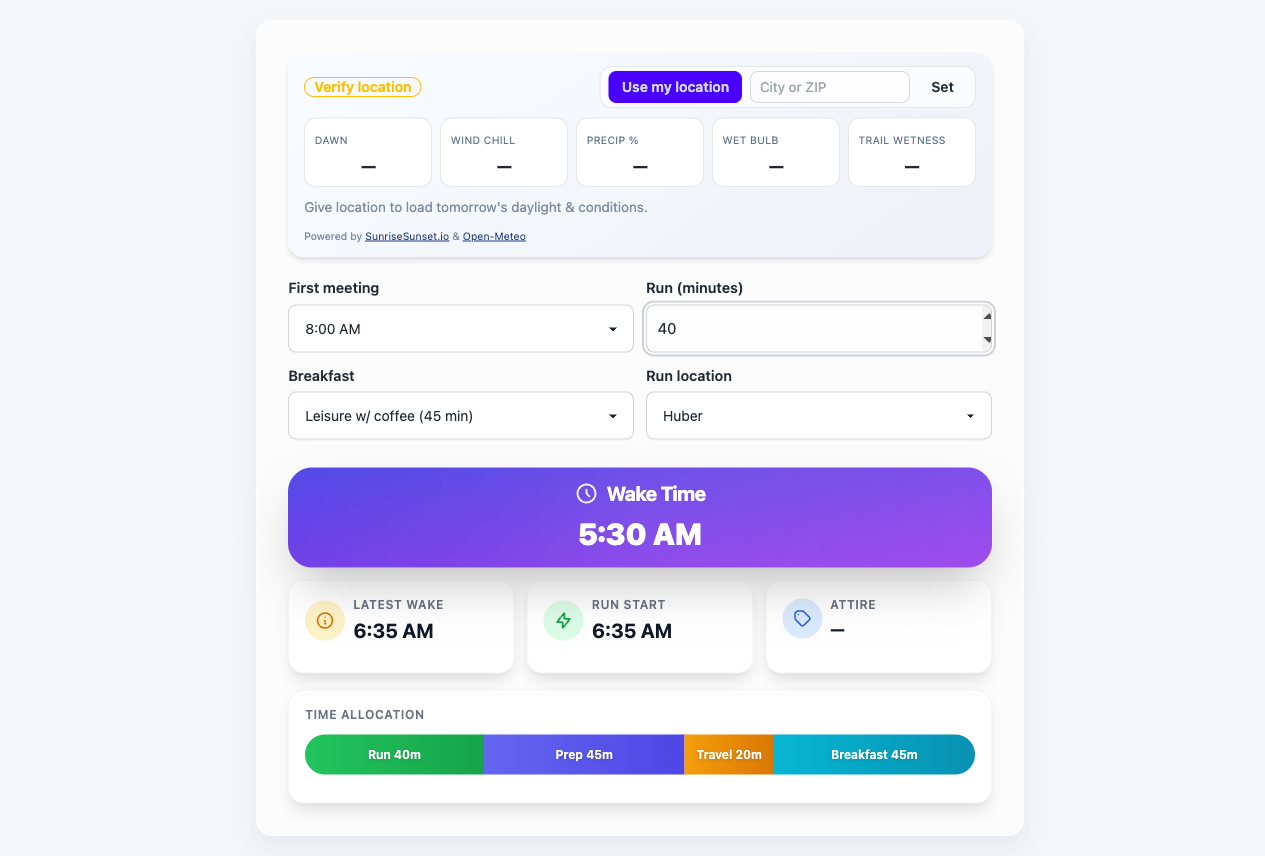
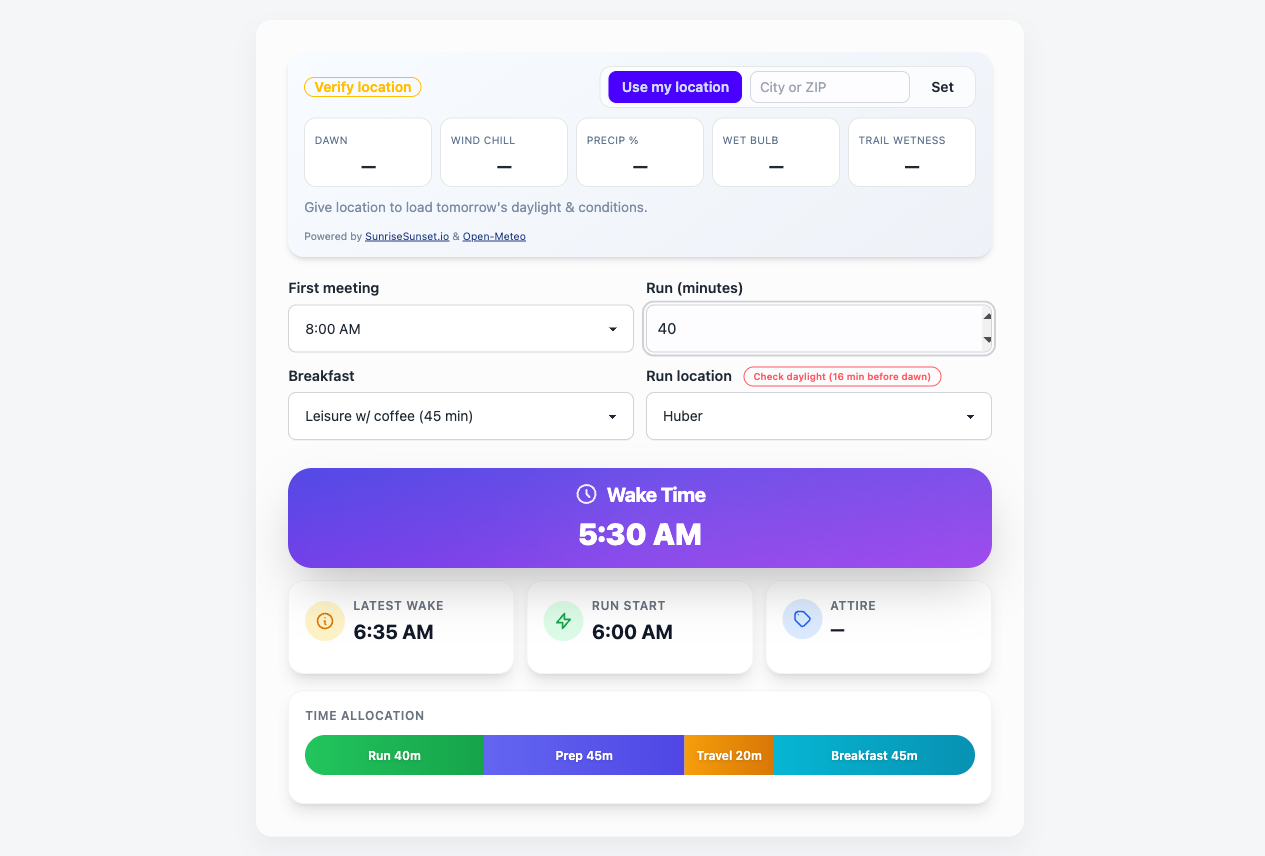
Fix run start calculation
- Run start is now wake + 20m prep (PREP_BEFORE_RUN) + half of travel time
- Travel time in inputs is round-trip, but run start only needs one-way
- Added PREP_BEFORE_RUN constant (20 minutes) for clarity

🤖 Generated with [Claude Code](https://claude.ai/code)

diff --git a/wake.html b/wake.html
@@ -708,6 +708,7 @@
       (() => {
         // Constants
         const PREP_MINUTES = 45; // Fixed prep time - not user-configurable by design
+        const PREP_BEFORE_RUN = 20; // Portion of prep before leaving for run
         const MINUTES_PER_DAY = 1440;
         const MINUTES_PER_HOUR = 60;
         const MM_TO_INCHES = 25.4;
@@ -897,7 +898,7 @@
           let wake = firstMinutes - total;
           if (wake < 0) wake += MINUTES_PER_DAY;
 
-          const runStartMinutes = wake + PREP_MINUTES + travel;
+          const runStartMinutes = wake + PREP_BEFORE_RUN + Math.floor(travel / 2); // Half travel for one-way
 
           // Get dawn time in minutes
           const dawnHours = currentDawnDate.getHours();
@@ -1584,8 +1585,8 @@
             else badge.classList.add('hidden');
           }
 
-          // Update run start time (wake + prep + travel)
-          const runStartMinutes = wakeMinutes + PREP_MINUTES + durations.travel;
+          // Update run start time (wake + prep portion + half travel for one-way)
+          const runStartMinutes = wakeMinutes + PREP_BEFORE_RUN + Math.floor(durations.travel / 2);
           const runStart12 = format12(fromMinutes(runStartMinutes));
           if (elements.runStart) elements.runStart.textContent = runStart12;
 
